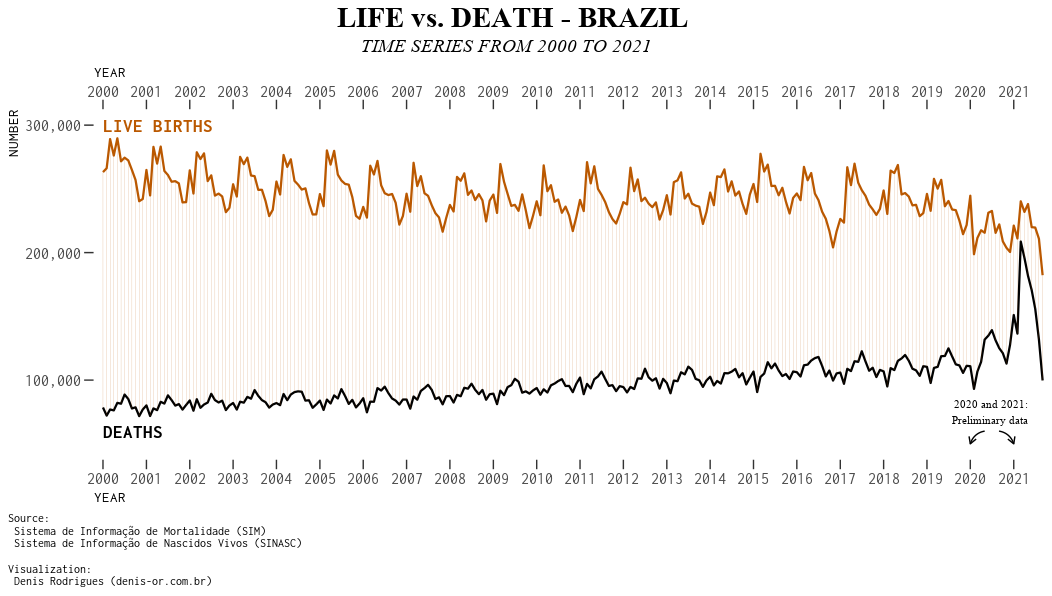
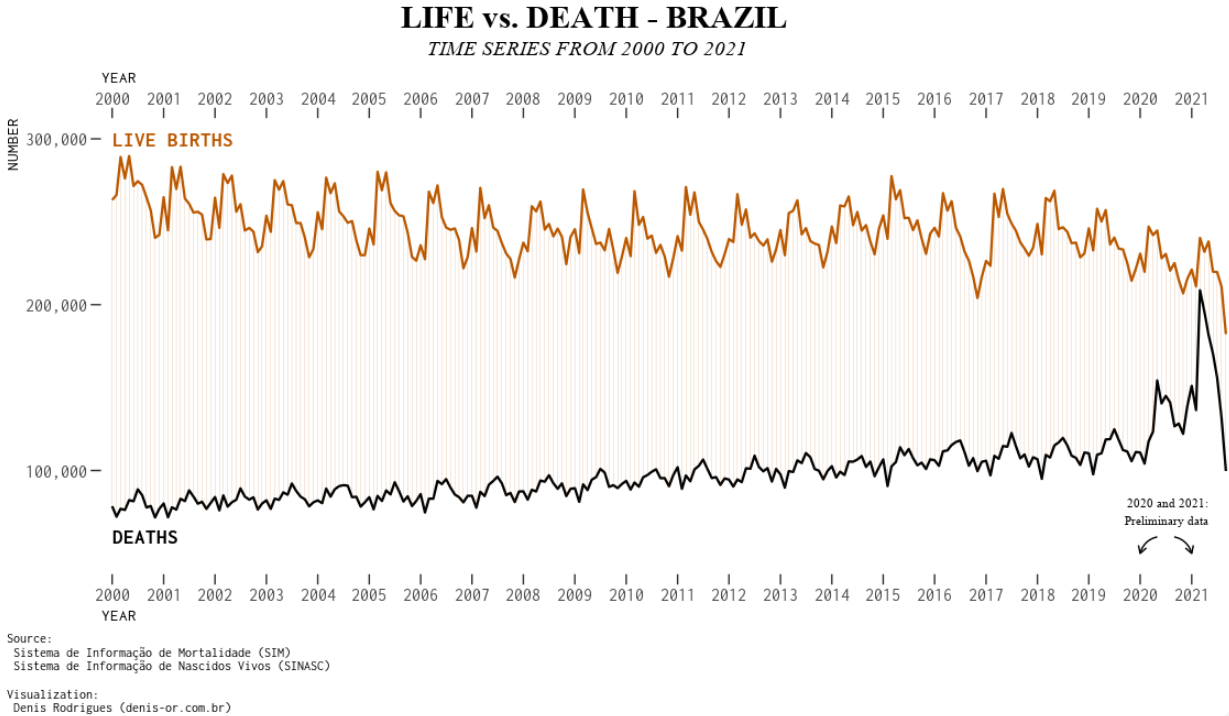
novo post

diff --git a/docs/post/obitos_nascimentos_brasil_2000_2021/index.html b/docs/post/obitos_nascimentos_brasil_2000_2021/index.html
@@ -223,14 +223,15 @@
 <script src="/rmarkdown-libs/header-attrs/header-attrs.js"></script>
 
 
-<p>Recentemente, o <a href="https://twitter.com/flowingdata" target="_blank">Nathan Yau</a>, do blog <a href="https://flowingdata.com/"><em>Flowing Data</em></a>, montou um gráfico muito legal de nascimentos e mortes nos Estados Unidos e eu resolvi fazer o mesmo, mas com dados do Brasil. Lá, o número geral de mortes em 2021 foi muito próximo (e até maior em alguns meses) do número geral de nascimentos (vide figura abaixo e <a href="https://flowingdata.com/2022/02/03/when-there-were-more-deaths-than-births-in-the-u-s/" target="_blank">link para publicação original aqui</a>).</p>
+<p>Recentemente, o <a href="https://twitter.com/flowingdata" target="_blank">Nathan Yau</a>, do blog <a href="https://flowingdata.com/"><em>Flowing Data</em></a>, montou um gráfico muito legal de nascimentos e mortes nos Estados Unidos e eu resolvi fazer o mesmo, mas com dados do Brasil. Lá, o número geral de mortes em 2021 foi muito próximo (e até maior em alguns meses) do número geral de nascimentos (vide <a href="https://flowingdata.com/2022/02/03/when-there-were-more-deaths-than-births-in-the-u-s/" target="_blank">link para publicação original aqui</a>).</p>
 <p>Os dados de 2021 apresentados são preliminares, mas também são reveladores, considerando toda a dinâmica referente à pandemia de Covid-19. Achei muito interessante. E muito curioso também. Houve um grande aumento nos óbitos, digamos um excesso, que sugere uma correlação com a pandemia. Além disso, o número de nascimento foi mais baixo.</p>
 <p>Bom, como um epidemiologista em formação, fui analisar o cenário do Brasil. Me fiz a pergunta: será que a série temporal de nascimentos brasileira teve alguma mudança em 2021, se comparada a série temporal de mortalidade, no mesmo período?</p>
 <p>Para isso, coletei os dados lá no Datasus (dados atualizados até janeiro de 2022 e preliminares para os anos 2020 e 2021). Usei o Sistema de Informação de Mortalidade e Sistema de Informação de Nascidos Vivos do Ministério da Saúde. Eu trunquei a série de 2021 em setembro, pois há dados até outubro e, possivelmente, muito incompleta nesse mês. Usei basicamente <code>ggplot2</code> no <code>R</code> e algumas recursos “avançados” para montar o gráfico.</p>
-<p>Peço licença ao Nathan para copiar o estilo do gráfico dele. Assim há possibilidade de comparação. E <em>tcharamm</em>: de fato. <strong>Há um aumento no número de óbitos que se aproxima do número de nascimentos nos meses de março e abril de 2021.</strong> Não observei nada comparado a esse aumento nos últimos 20 anos.<a href="https://pbs.twimg.com/media/FKsBV1hVEAYIbhy?format=jpg&amp;name=4096x4096" target="_blank">Clique aqui para visualizar o gráfico dos Estados Unidos.</a></p>
+<p>Peço licença ao Nathan para copiar o estilo do gráfico dele. Assim há possibilidade de comparação. E <em>tcharamm</em>: de fato. <strong>Há um aumento no número de óbitos que se aproxima do número de nascimentos nos meses de março e abril de 2021.</strong> Não observei nada comparado a esse aumento nos últimos 20 anos. <a href="https://pbs.twimg.com/media/FKsBV1hVEAYIbhy?format=jpg&amp;name=4096x4096" target="_blank">Clique aqui para visualizar o gráfico dos Estados Unidos.</a></p>
 <p><img src="/images/plot_death_brith_brazil_2000_2021_denis.png" /></p>
 <p>Pois bem, esses dados sugerem algo que pode ser investigado. Com um conhecimento prévio que temos, a pandemia parece ser o fator central na mudança. Aliás, tudo indica que há alguma correlação com a pandemia. Obviamente, seria muito bom testar com uma estrutura estatística para afirmar a correlação entre as séries. Mas, de qualquer maneira, já temos um indicativo para hipóteses. Deixo para vocês.</p>
 <p>Bom trabalho!</p>
+<p><strong>Alteração em 7/2/2022, 15h25:</strong> No repositório do Datasus já tinha uma versão mais recente dos dados preliminares de 2020 que eu não tinha. Gráfico atualizado! \o/ <a href="/images/plot_death_brith_brazil_2000_2021_denis_old.jpeg" target="_blank">Vejam o gráfico antigo aqui</a>.</p>
 </div>
         <div class="post-footer">
             <div class="info">

diff --git a/content/post/2022-02-04-obitos-nascimentos-brasil-2000-2021/index.pt_br.html b/content/post/2022-02-04-obitos-nascimentos-brasil-2000-2021/index.pt_br.html
@@ -17,11 +17,12 @@ DisableComments: no
 <script src="/rmarkdown-libs/header-attrs/header-attrs.js"></script>
 
 
-<p>Recentemente, o <a href="https://twitter.com/flowingdata" target="_blank">Nathan Yau</a>, do blog <a href="https://flowingdata.com/"><em>Flowing Data</em></a>, montou um gráfico muito legal de nascimentos e mortes nos Estados Unidos e eu resolvi fazer o mesmo, mas com dados do Brasil. Lá, o número geral de mortes em 2021 foi muito próximo (e até maior em alguns meses) do número geral de nascimentos (vide figura abaixo e <a href="https://flowingdata.com/2022/02/03/when-there-were-more-deaths-than-births-in-the-u-s/" target="_blank">link para publicação original aqui</a>).</p>
+<p>Recentemente, o <a href="https://twitter.com/flowingdata" target="_blank">Nathan Yau</a>, do blog <a href="https://flowingdata.com/"><em>Flowing Data</em></a>, montou um gráfico muito legal de nascimentos e mortes nos Estados Unidos e eu resolvi fazer o mesmo, mas com dados do Brasil. Lá, o número geral de mortes em 2021 foi muito próximo (e até maior em alguns meses) do número geral de nascimentos (vide <a href="https://flowingdata.com/2022/02/03/when-there-were-more-deaths-than-births-in-the-u-s/" target="_blank">link para publicação original aqui</a>).</p>
 <p>Os dados de 2021 apresentados são preliminares, mas também são reveladores, considerando toda a dinâmica referente à pandemia de Covid-19. Achei muito interessante. E muito curioso também. Houve um grande aumento nos óbitos, digamos um excesso, que sugere uma correlação com a pandemia. Além disso, o número de nascimento foi mais baixo.</p>
 <p>Bom, como um epidemiologista em formação, fui analisar o cenário do Brasil. Me fiz a pergunta: será que a série temporal de nascimentos brasileira teve alguma mudança em 2021, se comparada a série temporal de mortalidade, no mesmo período?</p>
 <p>Para isso, coletei os dados lá no Datasus (dados atualizados até janeiro de 2022 e preliminares para os anos 2020 e 2021). Usei o Sistema de Informação de Mortalidade e Sistema de Informação de Nascidos Vivos do Ministério da Saúde. Eu trunquei a série de 2021 em setembro, pois há dados até outubro e, possivelmente, muito incompleta nesse mês. Usei basicamente <code>ggplot2</code> no <code>R</code> e algumas recursos “avançados” para montar o gráfico.</p>
-<p>Peço licença ao Nathan para copiar o estilo do gráfico dele. Assim há possibilidade de comparação. E <em>tcharamm</em>: de fato. <strong>Há um aumento no número de óbitos que se aproxima do número de nascimentos nos meses de março e abril de 2021.</strong> Não observei nada comparado a esse aumento nos últimos 20 anos.<a href="https://pbs.twimg.com/media/FKsBV1hVEAYIbhy?format=jpg&amp;name=4096x4096" target="_blank">Clique aqui para visualizar o gráfico dos Estados Unidos.</a></p>
+<p>Peço licença ao Nathan para copiar o estilo do gráfico dele. Assim há possibilidade de comparação. E <em>tcharamm</em>: de fato. <strong>Há um aumento no número de óbitos que se aproxima do número de nascimentos nos meses de março e abril de 2021.</strong> Não observei nada comparado a esse aumento nos últimos 20 anos. <a href="https://pbs.twimg.com/media/FKsBV1hVEAYIbhy?format=jpg&amp;name=4096x4096" target="_blank">Clique aqui para visualizar o gráfico dos Estados Unidos.</a></p>
 <p><img src="/images/plot_death_brith_brazil_2000_2021_denis.png" /></p>
 <p>Pois bem, esses dados sugerem algo que pode ser investigado. Com um conhecimento prévio que temos, a pandemia parece ser o fator central na mudança. Aliás, tudo indica que há alguma correlação com a pandemia. Obviamente, seria muito bom testar com uma estrutura estatística para afirmar a correlação entre as séries. Mas, de qualquer maneira, já temos um indicativo para hipóteses. Deixo para vocês.</p>
 <p>Bom trabalho!</p>
+<p><strong>Alteração em 7/2/2022, 15h25:</strong> No repositório do Datasus já tinha uma versão mais recente dos dados preliminares de 2020 que eu não tinha. Gráfico atualizado! \o/ <a href="/images/plot_death_brith_brazil_2000_2021_denis_old.jpeg" target="_blank">Vejam o gráfico antigo aqui</a>.</p>
